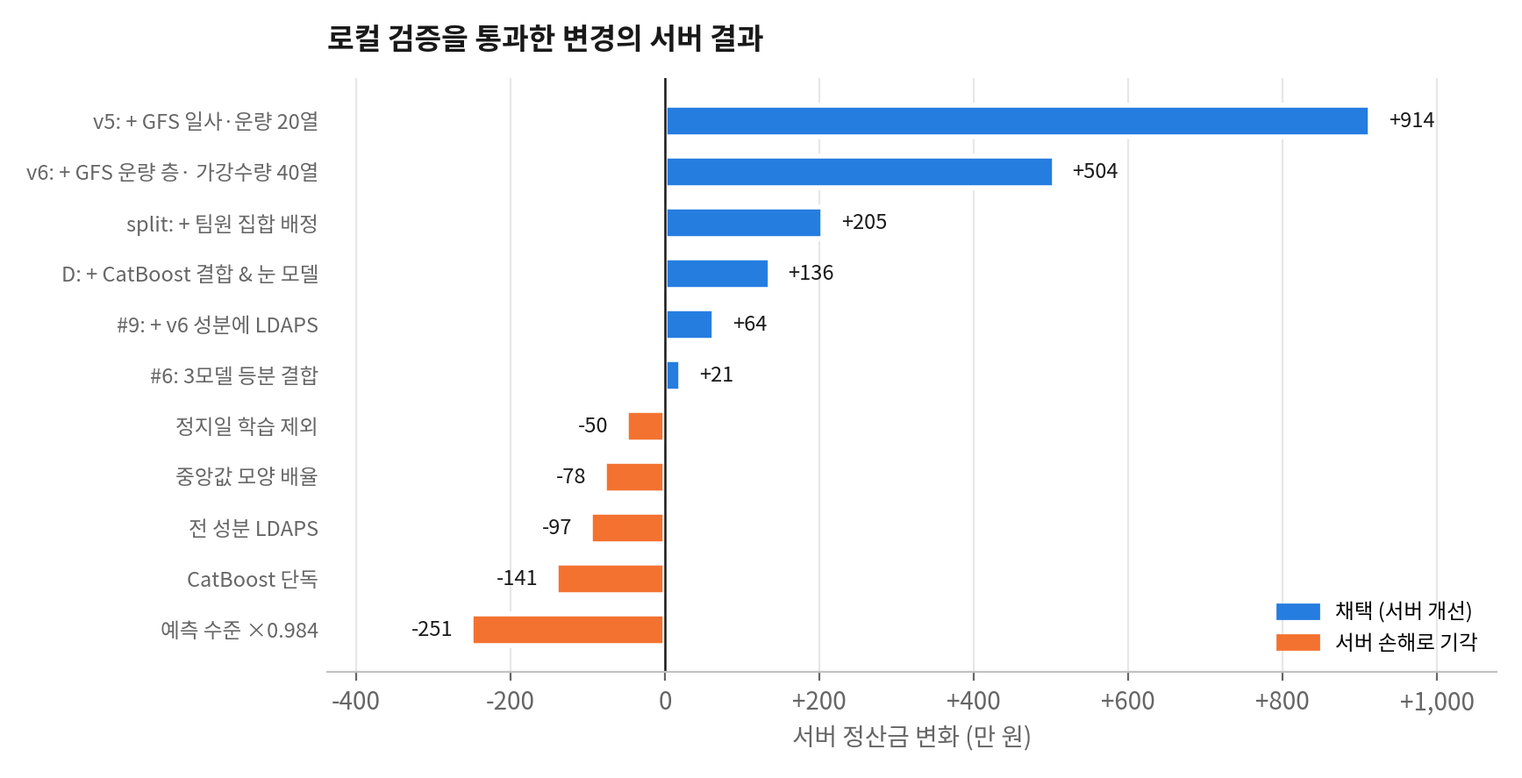
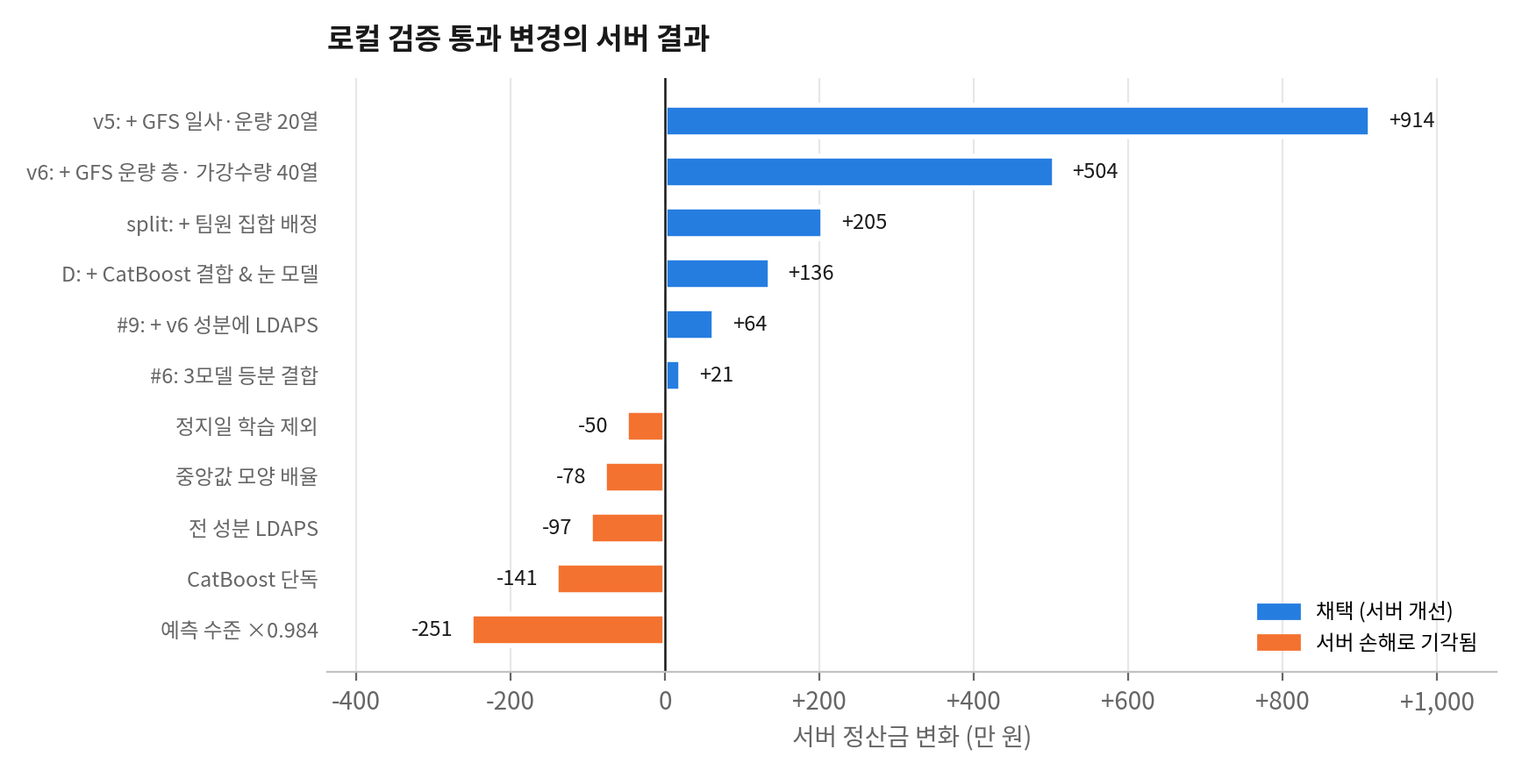
README.ko: 한국어 문체 가이드 반영, 물결표 이스케이프

Changed region(s): [[0.8092, 0.761, 0.9648, 0.8523], [0.2801, 0.0304, 0.498, 0.0913]]

diff --git a/scripts/make_readme_figures.py b/scripts/make_readme_figures.py
@@ -55,14 +55,14 @@ TEXT = {
         dec_x="Penalty reduction (%)",
     ),
     "ko": dict(
-        prog_title="공식 기준선 대비 서버 정산금 개선",
+        prog_title="공식 기준선 대비 서버 정산금 개선 추이",
         prog_y="누적 개선 (만 원)", prog_unit=lambda v: f"+{v:,.0f}",
         total="최종 +4,675만 원 (385팀 중 134위)",
-        lvs_title="로컬 검증을 통과한 변경의 서버 결과",
+        lvs_title="로컬 검증 통과 변경의 서버 결과",
         lvs_x="서버 정산금 변화 (만 원)", adopted="채택 (서버 개선)",
-        hurt="서버 손해로 기각", lvs_unit=lambda v: f"{v:+,.0f}",
-        dec_title="정답 수준을 알았다면 줄었을 페널티 (오라클 진단)",
-        dec_sub="2024-06 ~ 2025-04 진단. 각 해상도에서 예측을 실제 총량에 맞춰 배율 조정",
+        hurt="서버 손해로 기각됨", lvs_unit=lambda v: f"{v:+,.0f}",
+        dec_title="정답 수준을 알 때의 페널티 감소 폭 (오라클 진단)",
+        dec_sub="2024-06~2025-04 구간 진단, 해상도별로 예측을 실제 총량에 맞춰 배율 조정",
         dec_x="페널티 감소 (%)",
     ),
 }

diff --git a/README.ko.md b/README.ko.md
@@ -1,12 +1,12 @@
-# 태양광 집합자원 구성 최적화와 하루 전 발전량 예측 (OIBC 2026)
+# 태양광 집합자원 구성 최적화 및 하루 전 발전량 예측 (OIBC 2026)
 
 [English](README.md) · 한국어
 
 > **요약**
 >
 > - 최종 134 / 385위(상위 35%), 정산금 6,465,154,213원. 공식 기준선 대비 +4,675만 원(페널티 25% 감소)
-> - 서버에서 확인된 개선의 91%가 새 정보(제공 예보 특징 확장, 외부 수치예보 GFS·LDAPS)에서 나왔고, 보정·튜닝·결합의 효과는 수십만 원 단위에 그침
-> - 로컬에서 좋았던 변경 다섯 개가 서버에서는 손해였으며, 표본 밖 검증이 한 해에 몰려 그해의 과대예측 편향이 판단에 섞였음을 사후 분석으로 확인함([lessons.md](docs/lessons.md))
+> - 서버에서 확인된 개선의 91%가 새 정보(제공 예보 특징 확장, 외부 수치예보 GFS·LDAPS)에서 비롯되었으며, 보정·튜닝·결합의 효과는 수십만 원 단위에 그침
+> - 로컬에서 개선된 변경 다섯 건이 서버에서는 손해로 이어졌으며, 표본 밖 검증이 한 해에 집중되어 그해의 과대예측 편향이 판단에 반영되었음을 사후 분석으로 확인함([lessons.md](docs/lessons.md))
 
 ## 프로젝트 개요
 
@@ -14,50 +14,50 @@
   <img src="docs/images/competition_banner.jpg" alt="제6회 POSTECH·KAIST·UNIST AI & 데이터사이언스 경진대회 × 2026 POSTECH OIBC Big Data Challenge 배너" width="100%">
 </p>
 
-**2026 POSTECH OIBC Big Data Challenge**(제6회 POSTECH-UNIST-KAIST AI & 데이터사이언스 경진대회) 참가 프로젝트다. 주제는 '집합자원 구성 최적화 및 하루 전 발전량 예측'이다.
+**2026 POSTECH OIBC Big Data Challenge**(제6회 POSTECH-UNIST-KAIST AI & 데이터사이언스 경진대회) 참가 프로젝트이다. 주제는 '집합자원 구성 최적화 및 하루 전 발전량 예측'이다.
 
-- **과제:** 태양광 발전소 253개소(총 42.7 MW)를 두 집합(G1·G2, 각 20 MW 이상)으로 나누고, 집합별 시간 발전량을 대상일 전날 17시에 예측한다. 평가 기간은 2025-06 ~ 2026-05, 8,760시간이다.
-- **점수(정산금):** `S = Σ SMP·실적 − 0.1 × Σ SMP·k·|예측 − 실적|`. 11~15시는 k = 3이다. 절대오차는 **집합 단위**로 계산하므로, 집합 안의 발전소 오차는 서로 상쇄된다.
-- **핵심 관점:** 점수를 올리는 것은 둘째 항, 즉 SMP와 시간 가중을 곱한 집합 절대오차(페널티)를 줄이는 문제다. 그래서 RMSE가 가장 낮은 모델이 가장 좋은 제출이 되지는 않는다.
-- **결과:** 최고 제출의 정산금은 6,465,154,213원이다. 공식 기준선 대비 +4,675만 원이고, 정규화 점수로 약 +25점이다(기준선 페널티 대비 25% 감소). 최종 순위는 385팀 중 134위다(2026-11-13 마감).
-- **기간·환경:** 2026-10-01 ~ 11-13. 로컬 Mac(M2, 8 GB). 2인 팀이다.
+- **과제**: 태양광 발전소 253개소(총 42.7 MW)를 두 집합(G1·G2, 각 20 MW 이상)으로 나누고, 집합별 시간 발전량을 대상일 전날 17시에 예측. 평가 기간은 2025-06 \~ 2026-05, 8,760시간
+- **점수(정산금)**: `S = Σ SMP·실적 − 0.1 × Σ SMP·k·|예측 − 실적|`, 11\~15시는 k = 3. 절대오차를 **집합 단위**로 계산하므로 집합 내 발전소 오차는 서로 상쇄됨
+- **핵심 관점**: 점수 개선은 둘째 항, 즉 SMP와 시간 가중을 곱한 집합 절대오차(페널티)를 줄이는 문제. 따라서 RMSE가 가장 낮은 모델이 반드시 최선의 제출은 아님
+- **결과**: 최고 제출의 정산금 6,465,154,213원. 공식 기준선 대비 +4,675만 원, 정규화 점수 약 +25점(기준선 페널티 대비 25% 감소). 최종 순위 385팀 중 134위(2026-11-13 마감)
+- **기간·환경**: 2026-10-01 \~ 11-13, 로컬 Mac(M2, 8 GB), 2인 팀
 
-> 대회 규정에 따라 제공 데이터, 발전소 단위 예측, 제출 파일은 이 저장소에 없다. 문서의 수치는 모두 집계값이다.
+> 대회 규정에 따라 제공 데이터, 발전소 단위 예측, 제출 파일은 이 저장소에 포함하지 않았다. 문서의 수치는 모두 집계값이다.
 
 ## 데이터셋 및 탐색적 데이터 분석 (EDA)
 
 | 자료 | 내용 | 규모 |
 |---|---|---|
-| 발전 실적 | 발전소별 시간 발전량(kWh), 2021-01 ~ 2025-05 | 약 439만 행 |
-| 기상 예보 A·B | 두 제공사의 하루 전 예보(전날 10시·17시 발행). 관측지점 61·73개 | 470만·562만 행 |
-| 실측 기상 | 학습 구간에만 있음. 평가 구간에 없어 입력에서 제외 | — |
+| 발전 실적 | 발전소별 시간 발전량(kWh), 2021-01 \~ 2025-05 | 약 439만 행 |
+| 기상 예보 A·B | 두 제공사의 하루 전 예보(전날 10시·17시 발행), 관측지점 61·73개 | 470만·562만 행 |
+| 실측 기상 | 학습 구간에만 존재하여 입력에서 제외 | — |
 | SMP | 시간별 계통한계가격(학습·평가 구간) | 3.9만·8,760 행 |
 | 발전소 메타 | 용량, 비식별 좌표(최대 2 km 이동), 연결 관측지점 | 253개소 |
 
-**탐색에서 얻은 사실과 설계 결정**
+**탐색 결과 및 설계 결정**
 
-1. **발전량의 절반이 0이다.** 발전소 규모 차이도 크다(용량 중앙값 99 kW, 최대 약 1.4 MW). → 타깃을 kWh가 아니라 이용률(발전량 ÷ 용량)로 잡았다.
-2. **일사량 예보가 제공되지 않는다.** 운량과 자외선지수가 대리 변수이고, 두 제공사의 운량 상관은 0.73에 그친다. → 외부 수치예보(GFS, LDAPS)를 찾는 동기가 됐다.
-3. **발전소마다 관측 시작 시점이 다르다.** 253개소가 모두 관측된 기간은 마지막 5개월뿐이고, 용량의 22%(48개소)는 2024-06 이후 편입됐다. → 발전소별 모델 대신 전 발전소 공유 모델을 썼다. 검증 구간 설계도 이 제약을 따른다.
-4. **이상값은 소수다.** 음수 40건, 채워 넣은 것으로 보이는 반복값 구간, 야간 발전 1건이 있었다. → 원본은 고치지 않고, 학습할 때만 음수를 0으로 처리했다.
-5. **정합성 감사:** 예보 키 누락과 발행 시각, SMP 0원 시각, 평가 시간축을 점검했다. 17시 예보를 쓰고 빈 곳은 10시 예보로 채우면(플래그 추가) 평가 구간 결측은 0이다.
-6. **집합 구성의 여지는 작다.** 예측을 고정하면 페널티는 `0.1·Σ w·|전체 오차 합|` 아래로 내려갈 수 없다. 참조 배정은 이 하한보다 2.6%만 높았다. → 구성보다 예측 개선에 투자하기로 했다.
+1. **발전량의 절반이 0**: 발전소 규모 차이도 큼(용량 중앙값 99 kW, 최대 약 1.4 MW) → 타깃을 kWh가 아닌 이용률(발전량 ÷ 용량)로 설정
+2. **일사량 예보 미제공**: 운량과 자외선지수가 대리 변수이며, 두 제공사의 운량 상관은 0.73에 그침 → 외부 수치예보(GFS, LDAPS) 탐색의 계기
+3. **발전소별 관측 시작 시점 상이**: 253개소가 모두 관측된 기간은 마지막 5개월뿐이며, 용량의 22%(48개소)는 2024-06 이후 편입 → 발전소별 모델 대신 전 발전소 공유 모델을 사용하고, 검증 구간도 이 제약에 맞춰 설계
+4. **소수의 이상값**: 음수 40건, 채워 넣은 것으로 보이는 반복값 구간, 야간 발전 1건 → 원본은 수정하지 않고 학습 시에만 음수를 0으로 처리
+5. **정합성 감사**: 예보 키 누락과 발행 시각, SMP 0원 시각, 평가 시간축을 점검. 17시 예보를 우선 사용하고 빈 곳을 10시 예보로 채우면(플래그 추가) 평가 구간 결측 0건
+6. **작은 집합 구성 여지**: 예측을 고정하면 페널티는 `0.1·Σ w·|전체 오차 합|` 아래로 내려갈 수 없으며, 참조 배정은 이 하한보다 2.6%만 높음 → 구성보다 예측 개선에 집중하기로 결정
 
 ## 데이터 전처리 및 파생변수 생성
 
-- **타깃:** 청천 지수 `kt = 이용률 ÷ Haurwitz 청천 일사(cosz)`. 0~2로 자른다. 학습 가중치는 `용량 × 청천 일사`다. 주간(태양고도 > 0)만 학습하고, 야간은 0으로 예측한다.
-- **학습 마감:** 각 검증 구간의 첫 대상일 전날 17:00까지만 쓴다. 제출용 모델은 2025-05-31 17:00까지 학습했다.
+- **타깃**: 청천 지수 `kt = 이용률 ÷ Haurwitz 청천 일사(cosz)`, 0\~2로 절단. 학습 가중치는 `용량 × 청천 일사`. 주간(태양고도 > 0)만 학습하고 야간은 0으로 예측
+- **학습 마감**: 각 검증 구간의 첫 대상일 전날 17:00까지의 자료만 사용. 제출용 모델은 2025-05-31 17:00까지 학습
 
 **제공 예보 기반 84열**
-- A·B 예보 전 열(17시 우선, 10시 대체와 플래그), 10시와 17시 예보의 차이
+- A·B 예보 전 열(17시 우선, 10시 대체 및 플래그), 10시와 17시 예보의 차이
 - 운량·자외선지수의 앞뒤 1시간 값과 3시간 평균, 하루 평균·최대·합계
-- 전 관측지점 평균(광역 날씨)과 예보 상관으로 고른 인접 관측지점 4곳 평균
+- 전 관측지점 평균(광역 날씨)과 예보 상관 기준으로 선정한 인접 관측지점 4곳 평균
 - 태양 고도·방위·cos(천정각), 계절 sin/cos, 시각, 발전소 ID(범주형), 용량
 
 **외부 수치예보 70열** (공개 시각이 예측 시점보다 이른 실행분만 사용)
-- **GFS** (NOAA, 대상일 전날 00 UTC 실행): 하향 단파 일사, 전운량, 하·중·상층 운량, 가강수량 6개 변수 × 고정 2도 영역 10개 = 60열. 모든 발전소에 같은 열을 준다.
-- **LDAPS** (기상청 국지예보 1.5 km, 전날 00 UTC 실행): 하향 단파 일사 × 10개 영역 = 10열. 2026-03-31에 생산이 종료돼 이후 기간은 결측이다.
-- 날짜마다 원격지 파일의 공개 시각을 감사해 예측 시점(전날 08:00 UTC) 이후 자료가 섞이지 않게 했다.
+- **GFS** (NOAA, 대상일 전날 00 UTC 실행): 하향 단파 일사, 전운량, 하·중·상층 운량, 가강수량 6개 변수 × 고정 2도 영역 10개 = 60열. 모든 발전소에 동일한 열 적용
+- **LDAPS** (기상청 국지예보 1.5 km, 전날 00 UTC 실행): 하향 단파 일사 × 10개 영역 = 10열. 2026-03-31 생산 종료로 이후 기간은 결측
+- 날짜별로 원격지 파일의 공개 시각을 감사하여, 예측 시점(전날 08:00 UTC) 이후 자료의 혼입을 방지
 
 ## 모델링 및 검증 전략
 
@@ -81,33 +81,33 @@ flowchart TD
 ```
 
 **모델**
-- **주력:** LightGBM(600 트리, lr 0.06, 잎 127, min_child 200), L2 손실, 3시드 평균. 253개소를 한 모델로 학습한다.
-- **최종 제출:** 성격이 다른 세 예측의 등가중 평균이다.
-  1. LightGBM + GFS + LDAPS. 눈 예보 시각은 팀원의 적설 전용 모델(snowgate)로 대체한다.
+- **주력**: LightGBM(600 트리, lr 0.06, 잎 127, min_child 200), L2 손실, 3시드 평균. 253개소 전체를 하나의 모델로 학습
+- **최종 제출**: 이질적인 세 예측의 등가중 평균
+  1. LightGBM + GFS + LDAPS. 눈 예보 시각은 팀원의 적설 전용 모델(snowgate)로 대체
   2. CatBoost(발전소 ID 범주형)
-  3. 발전소 ID를 뺀 CatBoost
-- **집합 배정:** 팀원이 학습 기간 잔차로 탐색한 배정을 썼다. 서버에서 참조 배정 대비 +205만 원이었다.
+  3. 발전소 ID를 제외한 CatBoost
+- **집합 배정**: 팀원이 학습 기간 잔차로 탐색한 배정을 사용. 서버에서 참조 배정 대비 +205만 원
 
 **검증**
-- 무작위 분할 없이 시간순 검증만 쓴다. 각 구간의 예측 시점 이전 자료로만 학습한다.
-- **계절 4구간:** 여름·가을·겨울·봄마다 다른 학습 마감을 둔다.
-- **고정 11개월:** 2024-05 마감 모델 하나로 2024-06 ~ 2025-04를 예측해, 1년짜리 평가를 흉내 낸다.
-- 지표는 로컬 채점기(대회 산식 구현, 자체 검사 포함)로 잰 집합 페널티다. 7일 블록 부트스트랩으로 90% 구간을 함께 낸다.
-- **사전 등록 규칙:** 실험마다 가설, 변경, 판정 기준을 결과를 보기 전에 문서에 고정했다.
+- 무작위 분할 없이 시간순 검증만 사용하며, 각 구간의 예측 시점 이전 자료로만 학습
+- **계절 4구간**: 여름·가을·겨울·봄마다 별도의 학습 마감 설정
+- **고정 11개월**: 2024-05 마감 모델 하나로 2024-06 \~ 2025-04를 예측하여 1년 단위 평가를 모사
+- **지표**: 로컬 채점기(대회 산식 구현, 자체 검사 포함)로 산출한 집합 페널티. 7일 블록 부트스트랩으로 90% 구간을 함께 산출
+- **사전 등록 규칙**: 실험마다 가설, 변경, 판정 기준을 결과 확인 전에 문서로 고정
   - 채택 기준: 4계절 합 ≤ −1%, 개선 계절 ≥ 3, 최악 계절 ≤ +3%, 고정 11개월 ≤ 0%
-- **holdout:** 2025-05는 v3 선택이 끝난 뒤 처음 채점했다(+16.6점). 이후 GFS 후보(20열·60열)를 제출 전에 확인하는 데 한 번씩 더 썼다(p27). 후보 선택에는 쓰지 않았지만, 엄밀한 의미의 1회용 holdout은 아니다.
-- **서버 제출:** 리더보드를 보고 배율이나 혼합을 고치지 않았다. 사전에 정한 후보만 1회씩 냈다.
+- **holdout**: 2025-05는 v3 선택 완료 후 처음 채점(+16.6점). 이후 GFS 후보(20열·60열)의 제출 전 확인에 한 번씩 추가 사용(p27). 후보 선택에는 사용하지 않았으나, 엄밀한 의미의 1회용 holdout은 아님
+- **서버 제출**: 리더보드를 보고 배율이나 혼합을 조정하지 않음. 사전에 정한 후보만 1회씩 제출
 
-자세한 내용은 [docs/validation.md](docs/validation.md)에 있다.
+자세한 내용은 [docs/validation.md](docs/validation.md)에 정리하였다.
 
 ## 실험 결과 및 성능 개선 과정
 
-**서버 점수 추이** (정산금 S, 차이는 직전 최고 대비)
+**서버 점수 추이** (정산금 S, 개선 폭은 직전 최고 대비)
 
 | 단계 | 변경 | S (원) | 개선 |
 |---|---|---:|---:|
 | 공식 기준선 | 제공 `baseline.py` | 6,418,399,860 | — |
-| v3 | 특징 84개, 2021~ 전체 이력, 청천 지수 타깃, 3시드 | 6,446,717,423 | +2,832만 |
+| v3 | 특징 84개, 2021년 이후 전체 이력, 청천 지수 타깃, 3시드 | 6,446,717,423 | +2,832만 |
 | v5 | + GFS 일사·운량 20열 | 6,455,854,022 | +914만 |
 | v6 | + GFS 운량 층·가강수량 40열 | 6,460,890,524 | +504만 |
 | v6 + 배정 | 팀원 배정(nolimit) | 6,462,937,912 | +205만 |
@@ -119,7 +119,7 @@ flowchart TD
   <img src="docs/images/server_progress_ko.png" alt="공식 기준선 대비 서버 정산금 누적 개선 폭포 차트" width="90%">
 </p>
 
-**로컬 개선, 서버 손해:** 아래 세 변경은 로컬 검증에서는 좋았지만 서버에서는 손해였다.
+**로컬 개선 및 서버 손해**: 아래 세 변경은 로컬 검증에서는 개선되었으나 서버에서는 손해로 이어졌다.
 - CatBoost 단독
 - 전 성분 LDAPS
 - 예측 수준 하향(×0.984)
@@ -128,27 +128,27 @@ flowchart TD
   <img src="docs/images/local_vs_server_ko.png" alt="로컬 검증을 통과한 변경의 서버 정산금 변화. 채택 6건은 개선, 기각 5건은 손해" width="90%">
 </p>
 
-위 차트는 [docs/experiments.md](docs/experiments.md) 2절의 서버 손해 다섯 건을 모두 담았다.
+위 차트에는 [docs/experiments.md](docs/experiments.md) 2절의 서버 손해 다섯 건을 모두 포함하였다.
 
 **기각한 실험** (약 90개 중 대표)
-- 대체 예보: ECMWF, 일본 MSM, GEFS 평균·퍼짐·에어로졸, 기상청 단기예보, LDAPS 세밀 격자. 모두 GFS보다 하루 총량 설명력이 낮거나 같았다.
-- 손실·가중: L1, Huber, SMP·k 가중
-- 사후 보정: 기온·계절별 보정
-- 구조: 잔차 시퀀스 모델(TCN), 원천별 자매 모델
-- 튜닝: 하이퍼파라미터 탐색
-- 기타: 휴일 특징, 배정 재탐색
+- **대체 예보**: ECMWF, 일본 MSM, GEFS 평균·퍼짐·에어로졸, 기상청 단기예보, LDAPS 세밀 격자. 모두 하루 총량 설명력이 GFS보다 낮거나 같음
+- **손실·가중**: L1, Huber, SMP·k 가중
+- **사후 보정**: 기온·계절별 보정
+- **구조**: 잔차 시퀀스 모델(TCN), 원천별 자매 모델
+- **튜닝**: 하이퍼파라미터 탐색
+- **기타**: 휴일 특징, 배정 재탐색
 
-**정답을 보고 분해한 페널티 성분** (진단용)
-- 날마다 총량을 맞혔다면 페널티는 47.5% 줄었을 것이다.
-- 월별 수준을 맞혔다면 4.0% 줄었을 것이다.
+**오라클 기준 페널티 성분 분해** (진단용)
+- 날마다 총량을 맞혔다면 페널티 47.5% 감소
+- 월별 수준을 맞혔다면 페널티 4.0% 감소
 
 <p align="center">
   <img src="docs/images/penalty_decomposition_ko.png" alt="정답 수준을 알았을 때의 페널티 감소. 일 총량 47.5%, 월별 4.0%" width="90%">
 </p>
 
-→ 남은 오차의 절반은 '그날 얼마나 흐린가'를 맞히는 문제다. 일사 예보의 질이 중요하지만 그것만으로 정해지지는 않는다. 하루 안의 구조를 다루는 모델도 필요하다(회고 참고).
+남은 오차의 절반은 '그날 얼마나 흐린가'를 예측하는 문제이다. 일사 예보의 질이 중요하지만, 그것만으로 결정되지는 않는다. 하루 안의 구조를 다루는 모델도 필요하다(회고 참고).
 
-전체 목록은 [docs/experiments.md](docs/experiments.md)에 있다.
+전체 목록은 [docs/experiments.md](docs/experiments.md)에 정리하였다.
 
 ## 폴더 구조
 
@@ -158,10 +158,10 @@ flowchart TD
 ├── LICENSE              # 코드: MIT. 대회 데이터는 포함하지 않음
 ├── requirements.txt
 ├── docs/
-│   ├── problem.md        # 문제 정의와 점수 구조 분석
+│   ├── problem.md        # 문제 정의 및 점수 구조 분석
 │   ├── validation.md     # 검증 설계, 채택 기준, 한계
 │   ├── experiments.md    # 실험 전체 목록: 가설 → 결과 → 판정
-│   ├── lessons.md        # 로컬·서버 불일치 원인 분석과 교훈
+│   ├── lessons.md        # 로컬·서버 불일치 원인 분석 및 교훈
 │   └── OIBC2026_technical_report.pdf   # 영문 기술 보고서 3쪽
 ├── scripts/
 │   ├── check_publish.py  # 공개 전 점검(데이터·키·좌표·식별자)
@@ -174,21 +174,21 @@ flowchart TD
 │   ├── gfs_fetch.py, gfs_more.py, ldaps_fetch.py # 외부 예보 수집(공개 시각 검사 포함)
 │   ├── compose.py                                # 집합 배정 탐색
 │   ├── make_submission.py, make_portfolio.py     # 최종 학습·조립·검증
-│   ├── submission_log.py                         # 제출 기록과 기대 점수
+│   ├── submission_log.py                         # 제출 기록 및 기대 점수
 │   ├── snow_gate.py, snowgate_submission.py      # 적설 전용 모델 게이트(팀원)
 │   ├── search_oof.py                             # OOF 잔차 기반 배정 탐색(팀원)
-│   ├── <공용 모듈>.py                             # 위 진입점이 쓰는 특징·모델 보조 모듈
+│   ├── <공용 모듈>.py                             # 위 진입점이 사용하는 특징·모델 보조 모듈
 │   └── experiments/<실험명>.py                   # 실험·진단 스크립트(docs/experiments.md와 대응)
 ├── tests/                                        # 합성 입력 단위 테스트(python -m unittest discover -s tests -t .)
 └── experiments/<실험명>/metrics.json             # 실험별 집계 지표
 ```
 
-- `src/`에는 제출 파이프라인과 그것이 import하는 모듈만 둔다. 일부 공용 모듈(`gfs_pilot`, `tune_v3` 등)은 이름은 실험이지만 최종 파이프라인이 그 안의 로더를 쓰기 때문에 `src/`에 남았다.
-- 실험 스크립트는 `python -m src.experiments.<이름>`으로 실행한다.
+- `src/`에는 제출 파이프라인과 그 파이프라인이 import하는 모듈만 배치. 일부 공용 모듈(`gfs_pilot`, `tune_v3` 등)은 이름은 실험이지만, 최종 파이프라인이 내부 로더를 사용하므로 `src/`에 유지
+- 실험 스크립트는 `python -m src.experiments.<이름>`으로 실행
 
 ## 실행 방법
 
-대회 제공 데이터가 있어야 한다. 데이터는 저장소 밖에 둔다.
+대회 제공 데이터가 필요하며, 데이터는 저장소 밖에 둔다.
 
 ```bash
 python3.9 -m venv .venv && .venv/bin/pip install -r requirements.txt
@@ -203,47 +203,47 @@ export OIBC_DATA_ROOT=/path/to/OIBC_2026_data      # raw/train, raw/test, raw/si
 .venv/bin/python -m src.gfs_fetch 2021-01-02 2026-05-31 more     # 운량 층·가강수량 40열
 KMA_AUTH_KEY=... .venv/bin/python -m src.ldaps_fetch 2021-01-02 2026-03-31
 
-# 최종 구성 요소 학습과 제출 조립
+# 최종 구성 요소 학습 및 제출 조립
 .venv/bin/python -m src.make_portfolio train v6l
 .venv/bin/python -m src.make_portfolio build 6
 ```
 
-- 각 스크립트는 집계 지표만 출력하고 `experiments/<실험명>/metrics.json`에 저장한다.
-- 공개 전에는 `python scripts/check_publish.py`를 실행한다.
+- 각 스크립트는 집계 지표만 출력하고 `experiments/<실험명>/metrics.json`에 저장
+- 공개 전에는 `python scripts/check_publish.py` 실행
 
 ### 재현 범위
 
-| 제출 | 재현 | 필요한 것 |
+| 제출 | 재현 | 필요 항목 |
 |---|---|---|
 | v3, v5, v6 | 가능 | 대회 데이터, GFS(공개) |
-| C (v6 + CatBoost 결합) | 가능 | 위 + `make_submission ... blend_cb=1` |
-| D, 4 ~ 7번 | 가능(해시 미확인) | 위 + snowgate 예측(`scripts/snowgate_run.sh`) |
-| **9번(최고 점수)** | 조건부 | 위 + LDAPS(기상청 API허브 키). 조립 스크립트 없음(아래 식) |
+| C (v6 + CatBoost 결합) | 가능 | 위 항목 + `make_submission ... blend_cb=1` |
+| D, 4 \~ 7번 | 가능(해시 미확인) | 위 항목 + snowgate 예측(`scripts/snowgate_run.sh`) |
+| **9번(최고 점수)** | 조건부 | 위 항목 + LDAPS(기상청 API허브 키), 조립 스크립트 없음(아래 식 참고) |
 
-- snowgate(적설 전용 모델)와 배정 탐색은 팀원이 만들었다. 코드: `src/snow_gate.py`, `src/snowgate_submission.py`, `src/search_oof.py`, `src/experiments/eval_comp.py`, `src/experiments/eval_forecast.py`, `scripts/snowgate_run.sh`, `src/features.py`의 `snow` 묶음.
-- `scripts/snowgate_run.sh`는 v6 기본 예측, 눈 모델 예측(`feats=fullc+snow`), 게이트 결합을 차례로 만든다. 배정 파일 `composition_oof_gfs60_nolimit.csv`는 `src.search_oof`로 만든다. 당시 제출 묶음과 해시가 같은지는 공개 저장소 구조에서 다시 확인하지 않았다.
-- `make_portfolio build`는 다시 만든 snowgate 예측을 먼저 쓰고, 없으면 당시 받은 묶음(`OIBC_SNOWGATE_ZIP`, 기본 `$OIBC_DATA_ROOT/external/`)을 읽는다.
-- 9번은 조립 스크립트가 남아 있지 않고, 식만 기록되어 있다. 9번 = 6번 + (1/3)·(v6l − v6)이며, snowgate 게이트 밖이고 2026-03-31 이전인 행에만 적용했다. 여기서 v6l은 `make_portfolio train v6l`로 만드는 v6+LDAPS 3시드 예측이다.
-- LDAPS는 2026-03-31에 생산이 끝나, 그 뒤 기간은 GFS만으로 예측한다.
+- **팀원 작성 코드**: snowgate(적설 전용 모델) 및 배정 탐색. `src/snow_gate.py`, `src/snowgate_submission.py`, `src/search_oof.py`, `src/experiments/eval_comp.py`, `src/experiments/eval_forecast.py`, `scripts/snowgate_run.sh`, `src/features.py`의 `snow` 묶음
+- `scripts/snowgate_run.sh`는 v6 기본 예측, 눈 모델 예측(`feats=fullc+snow`), 게이트 결합을 순서대로 생성. 배정 파일 `composition_oof_gfs60_nolimit.csv`는 `src.search_oof`로 생성. 단, 당시 제출 묶음과의 해시 일치 여부는 공개 저장소 구조에서 재확인하지 않음
+- `make_portfolio build`는 재생성한 snowgate 예측을 우선 사용하고, 없으면 당시 받은 묶음(`OIBC_SNOWGATE_ZIP`, 기본 `$OIBC_DATA_ROOT/external/`)을 읽음
+- 9번은 조립 스크립트 없이 식만 기록됨. 9번 = 6번 + (1/3)·(v6l − v6)이며, snowgate 게이트 밖이면서 2026-03-31 이전인 행에만 적용. v6l은 `make_portfolio train v6l`로 생성하는 v6+LDAPS 3시드 예측
+- LDAPS는 2026-03-31에 생산이 종료되어, 이후 기간은 GFS만으로 예측
 
 ## 회고
 
-**잘한 것**
-- **점수 구조부터 분석했다.** 집합 절대오차의 하한을 수식으로 정리해, 구성보다 예측에 투자할 근거를 초기에 세웠다.
-- **실험을 사전 등록했다.** 약 90개 실험 모두 결과 전에 기준을 고정했다. 리더보드에 맞추지 않았기 때문에, 어떤 개선이 진짜였는지 말할 수 있다.
-- **외부 예보를 체계적으로 선별했다.** 예보 5종의 '하루 총량 설명력'을 학습 전에 비교해, 수집 비용을 들이기 전에 걸렀다. 가장 큰 개선(GFS +1,400만 원)이 여기서 나왔다.
+**잘한 점**
+- **점수 구조 우선 분석**: 집합 절대오차의 하한을 수식으로 정리하여, 구성보다 예측에 투자할 근거를 초기에 확보
+- **실험 사전 등록**: 약 90개 실험 모두 결과 확인 전에 기준을 고정. 리더보드에 맞추지 않았으므로 실제 개선 요인을 구분할 수 있음
+- **외부 예보의 체계적 선별**: 예보 5종의 '하루 총량 설명력'을 학습 전에 비교하여, 수집 비용을 들이기 전에 선별. 가장 큰 개선(GFS +1,400만 원)이 이 과정에서 확보됨
 
-**부족했던 것**
-- **검증 연도가 하나에 몰렸다.** 실질적인 표본 밖 검증이 2024-06 ~ 2025-04 한 해에 집중됐다. 그해 모델은 실적보다 1.3% 과대예측했고, 그래서 '예측을 낮추는' 변경이 로컬에서 유리하게 보였다. 평가 연도는 반대였고, 같은 원인으로 서버 손해가 세 번 났다([docs/lessons.md](docs/lessons.md)).
-- **하루 총량 오차에서 멈췄다.** 페널티의 절반이 하루 총량 오차인데, 시각별 트리 모델은 '흐린 날은 하루 종일 흐리다'는 구조를 직접 다루지 못한다. 하루 단위 시퀀스 모델은 끝까지 해 보지 못했다.
-- **격차의 원인을 예보 정보로만 봤다.** 대회 종료 후 운영팀 공지에 따르면, 코드 검증을 마친 상위권 2팀은 외부 기상 3소스에 더해 ML·DL 혼합 앙상블을 썼다. 우리는 외부 예보를 같은 방식(공개 시각 감사)으로 썼지만, 모델은 트리 계열뿐이었다. 우리 오차율은 약 3.6%로 추정되며, 수렴한 상위권(3.0 ~ 3.3%)보다 오차가 12 ~ 18% 크다([docs/lessons.md](docs/lessons.md)).
-- **배정 탐색도 한 구간에서만 검증했다.** 잔차 기반 배정은 다른 구간에서 통하지 않아 참조 배정에 가깝게 머물렀다. 상위 팀은 여러 학습 기간의 교차검증 오차로 탐색했다. 배정 효과(1 ~ 2%)는 1위 격차를 설명하지 못하지만, 밀집한 순위 구간에서는 수십 계단의 차이가 된다.
+**부족했던 점**
+- **검증 연도의 편중**: 실질적인 표본 밖 검증이 2024-06 \~ 2025-04 한 해에 집중됨. 그해 모델은 실적보다 1.3% 과대예측하였고, 그 결과 '예측을 낮추는' 변경이 로컬에서 유리하게 나타남. 평가 연도는 반대 양상이었으며, 같은 원인으로 서버 손해가 세 차례 발생함([docs/lessons.md](docs/lessons.md))
+- **하루 총량 오차 미해결**: 페널티의 절반이 하루 총량 오차이나, 시각별 트리 모델은 '흐린 날은 하루 종일 흐리다'는 구조를 직접 다루지 못함. 하루 단위 시퀀스 모델은 완성하지 못함
+- **격차 원인을 예보 정보로만 해석**: 대회 종료 후 운영팀 공지에 따르면, 코드 검증을 마친 상위권 2팀은 외부 기상 3소스와 함께 ML·DL 혼합 앙상블을 사용함. 본 팀도 외부 예보를 같은 방식(공개 시각 감사)으로 사용하였으나, 모델은 트리 계열뿐이었음. 본 팀의 오차율은 약 3.6%로 추정되며, 수렴한 상위권(3.0 \~ 3.3%)보다 오차가 12 \~ 18% 큼([docs/lessons.md](docs/lessons.md))
+- **배정 탐색의 단일 구간 검증**: 잔차 기반 배정이 다른 구간에서 재현되지 않아 참조 배정에 가깝게 유지됨. 상위 팀은 여러 학습 기간의 교차검증 오차로 탐색함. 배정 효과(1 \~ 2%)로 1위와의 격차를 설명할 수는 없음. 다만 밀집한 순위 구간에서는 수십 계단의 차이로 이어짐
 
-**다음에 다르게 할 것**
-- 검증을 여러 연도 블록으로 나눈다.
-- 사후 보정은 '기준 예측의 수준을 바꿔도 효과가 유지되는가'를 확인한 뒤 채택한다.
-- 하루 단위 구조(일 총량 → 시간 배분)를 초기에 설계하고, 트리 모델과 성격이 다른 DL 계열을 앙상블 후보로 일찍 넣는다.
-- 배정 탐색도 여러 기간의 표본 밖 오차로 검증한다.
+**향후 개선 방향**
+- 검증을 여러 연도 블록으로 분할
+- 사후 보정은 '기준 예측의 수준을 바꿔도 효과가 유지되는가'를 확인한 뒤 채택
+- 하루 단위 구조(일 총량 → 시간 배분)를 초기에 설계하고, 트리 모델과 이질적인 DL 계열을 앙상블 후보로 조기 도입
+- 배정 탐색도 여러 기간의 표본 밖 오차로 검증
 
 ## 팀
 
@@ -252,4 +252,4 @@ KMA_AUTH_KEY=... .venv/bin/python -m src.ldaps_fetch 2021-01-02 2026-03-31
 
 ## 라이선스
 
-코드는 [MIT 라이선스](LICENSE)를 따른다. 대회 제공 데이터(발전 실적, 기상 예보, SMP, 발전소 정보)는 이 저장소에 없으며, 대회 규정상 재배포할 수 없다. 외부 예보(GFS, LDAPS 등)는 각 제공 기관의 이용 조건을 따른다.
+코드는 [MIT 라이선스](LICENSE)를 따른다. 대회 제공 데이터(발전 실적, 기상 예보, SMP, 발전소 정보)는 이 저장소에 포함하지 않았으며, 대회 규정상 재배포할 수 없다. 외부 예보(GFS, LDAPS 등)는 각 제공 기관의 이용 조건을 따른다.
